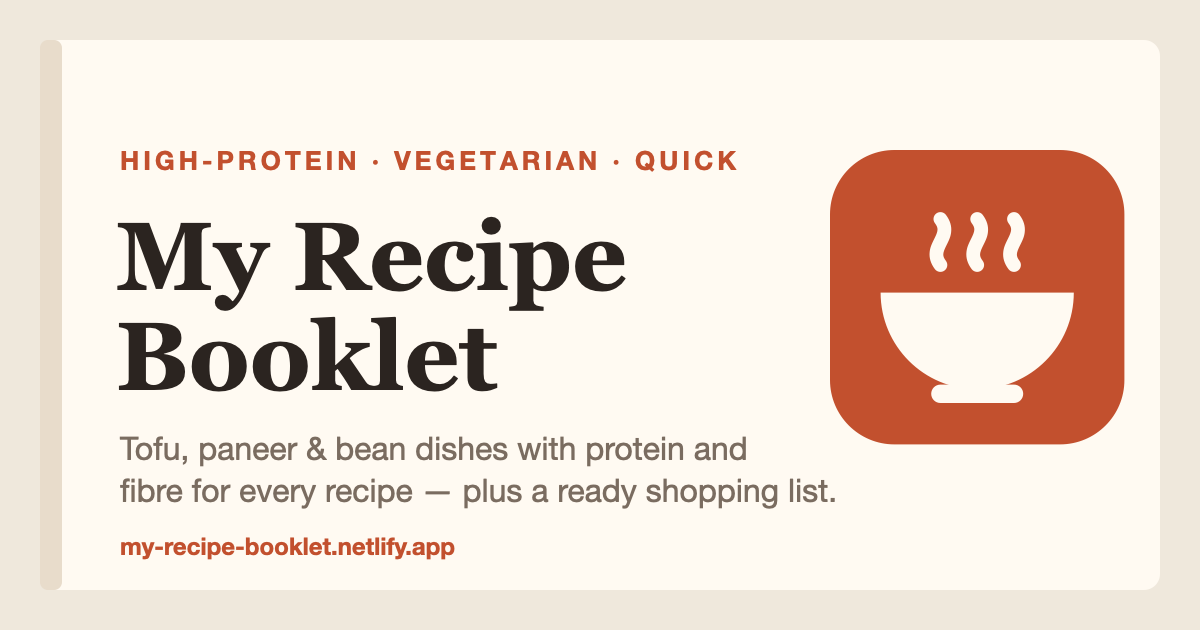
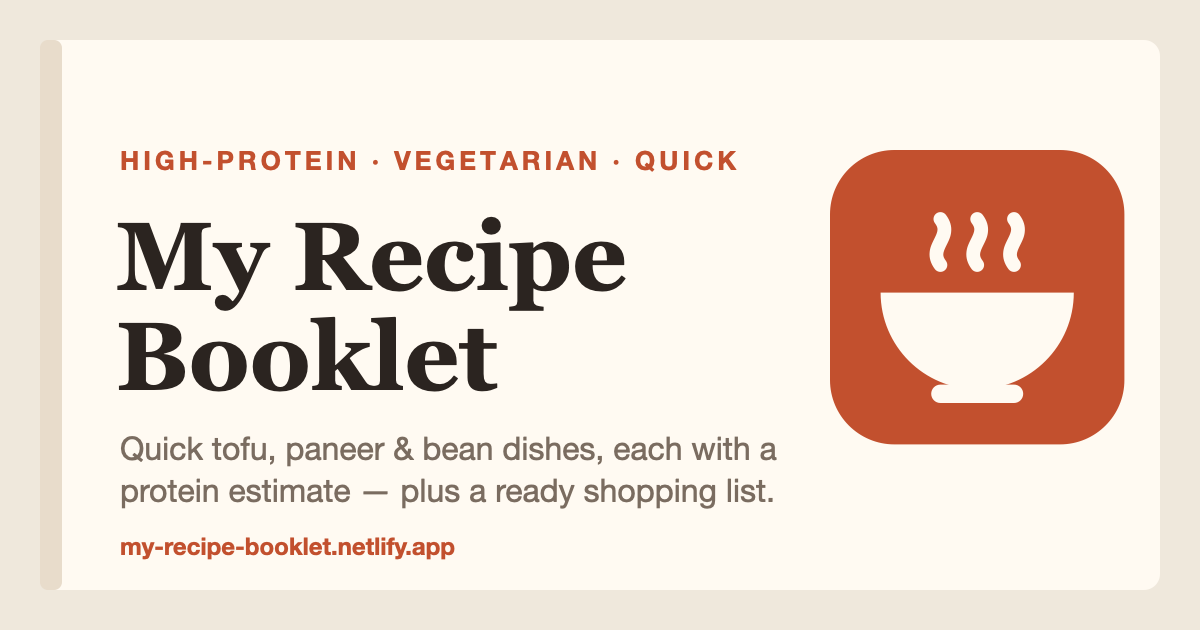
Make the booklet commercial-ready: per-recipe pages, sharing, fixes
- build.mjs generates a static, indexable page per recipe with its own
  title, description, share card and schema.org Recipe data, plus a sitemap
- render.js holds recipe helpers shared by the app and the builder
- Share button on recipe pages; ?pick= link adds a recipe to the list
- Copy list works without the Clipboard API (local file)
- Corrupt saved data no longer blanks the site
- Recipe slugs can't collide with built-in pages
- Screen-reader names for pick buttons and the cart count
- Landing and share-image copy no longer claim fibre for every recipe

Changed region(s): [[0.0925, 0.6937, 0.7092, 0.8143]]

diff --git a/app.js b/app.js
@@ -1,7 +1,5 @@
 (function () {
-  const esc = (s) => String(s ?? "").replace(/[&<>"']/g, (c) =>
-    ({ "&": "&amp;", "<": "&lt;", ">": "&gt;", '"': "&quot;", "'": "&#39;" }[c]));
-  const slugify = (s) => s.toLowerCase().replace(/&/g, "and").replace(/[^a-z0-9]+/g, "-").replace(/^-|-$/g, "");
+  const { esc, withSlugs, stats, metaLine, bodyHtml } = window.RecipeKit;
   const cap = (s) => s.charAt(0).toUpperCase() + s.slice(1);
   const load = (k, d) => { try { return JSON.parse(localStorage.getItem(k)) ?? d; } catch (e) { return d; } };
   const store = (k, v) => { try { localStorage.setItem(k, JSON.stringify(v)); } catch (e) {} };
@@ -16,40 +14,36 @@
     history.replaceState(null, "", location.pathname + location.hash);
   }
   const owner = load("recipe-booklet-owner", false);
+  const pickFromLink = params.get("pick");
+  if (pickFromLink) history.replaceState(null, "", location.pathname + location.hash);
   const FILE = window.RECIPES || [];
+  const isRecipe = (r) => r && typeof r.title === "string" && r.title.trim();
+  const loadList = (k) => { const v = load(k, []); return Array.isArray(v) ? v : []; };
 
   // Recipes added on the website live in this browser until exported into recipes.js.
   // Once a recipe with the same title is in the file, the browser copy is dropped.
   const ADDED = "recipe-booklet-added";
   const inFile = new Set(FILE.map((r) => r.title.trim().toLowerCase()));
-  let added = load(ADDED, []).filter((r) => !inFile.has(r.title.trim().toLowerCase()));
+  let added = loadList(ADDED).filter(isRecipe).filter((r) => !inFile.has(r.title.trim().toLowerCase()));
   store(ADDED, added);
 
   const PICKED = "recipe-booklet-picked";
-  let picked = new Set(load(PICKED, []));
+  let picked = new Set(loadList(PICKED).filter((s) => typeof s === "string"));
   const savePicked = () => store(PICKED, [...picked]);
 
   let recipes = [], bySlug = {}, cuisines = [];
   let filter = { q: "", cuisine: "" };
   let editingId = null;
 
-  const stats = (r) => [
-    r.cuisine && `<span class="stat">${esc(r.cuisine)}</span>`,
-    r.protein && `<span class="stat"><b>Protein</b> ${esc(r.protein)}</span>`,
-    r.fibre && `<span class="stat"><b>Fibre</b> ${esc(r.fibre)}</span>`,
-    r.time && `<span class="stat"><b>Time</b> ${esc(r.time)}</span>`,
-    r.makes && `<span class="stat"><b>Makes</b> ${esc(r.makes)}</span>`,
-  ].filter(Boolean).join("");
-
   const pickBtn = (r, small) =>
-    `<button class="btn pick${small ? " pick-sm" : ""}" data-pick="${r.slug}" aria-pressed="false"></button>`;
+    `<button class="btn pick${small ? " pick-sm" : ""}" data-pick="${r.slug}" data-name="${esc(r.title)}" aria-pressed="false"></button>`;
 
   const proteinMax = (r) => Math.max(0, ...(String(r.protein || "").match(/\d+/g) || []).map(Number));
 
   const card = (r) => `<a class="card" href="#${r.slug}">
       <span class="card-emoji">${esc(r.emoji || "🍽")}</span>
       <span class="card-title">${esc(r.title)}</span>
-      <span class="card-meta">${[r.cuisine, r.protein && r.protein + " protein"].filter(Boolean).map(esc).join(" · ")}</span>
+      <span class="card-meta">${metaLine(r)}</span>
     </a>`;
 
   function coverPage() {
@@ -59,7 +53,7 @@
       <div class="hero">
         <p class="eyebrow">High-protein · vegetarian · weeknight-fast</p>
         <h1 id="hero-title">Eat well.<br>Hit your protein.</h1>
-        <p class="lede">${recipes.length} simple recipes built around tofu, paneer, beans and Greek yogurt — with protein and fibre for every dish, up to ~${top}g a plate.</p>
+        <p class="lede">${recipes.length} simple recipes built around tofu, paneer, beans and Greek yogurt — each with a protein estimate, up to ~${top}g a plate.</p>
         <div class="hero-cta">
           <button class="btn primary big" data-go="contents">Browse recipes →</button>
           <button class="btn big" data-go="list">Build a shopping list</button>
@@ -118,18 +112,13 @@
       ? list.map((r) => `<li><a href="#${r.slug}">
           <span class="toc-emoji">${esc(r.emoji || "🍽")}</span>
           <span><span class="toc-title">${esc(r.title)}</span>
-            <span class="toc-meta">${[r.cuisine, r.protein && "Protein " + r.protein].filter(Boolean).map(esc).join(" · ")}</span></span>
+            <span class="toc-meta">${metaLine(r)}</span></span>
           <span class="toc-num">${r.n}</span></a>${pickBtn(r, true)}</li>`).join("")
       : `<li class="empty">No recipes match.</li>`;
     syncPicks();
   }
 
   function recipePage(r) {
-    const ing = (r.ingredients || []).map((x) => x.startsWith("## ")
-      ? `<li class="ing-head">${esc(x.slice(3))}</li>`
-      : `<li><label><input type="checkbox"><span>${esc(x)}</span></label></li>`).join("");
-    const steps = (r.method || []).map((x) => typeof x === "string" ? `<li>${esc(x)}</li>`
-      : `<li><b class="step-title">${esc(x.step)}</b>${[].concat(x.text).map((t) => `<p>${esc(t)}</p>`).join("")}</li>`).join("");
     const own = owner && r.custom ? `<span class="own">Added in this browser
         <button class="link" data-edit="${esc(r.id)}">Edit</button>
         <button class="link danger" data-delete="${esc(r.id)}">Delete</button></span>` : "";
@@ -139,13 +128,9 @@
         <div class="recipe-no">Recipe ${r.n}</div>
         <h2><span class="e">${esc(r.emoji || "🍽")}</span>${esc(r.title)}</h2>
         <div class="stats">${stats(r)}</div>
-        <div class="head-pick">${pickBtn(r)}</div>
+        <div class="head-pick">${pickBtn(r)}${r.custom ? "" : `<button class="btn" data-share="${r.slug}">Share</button>`}</div>
       </div>
-      <div class="cols">
-        <div><h3>Ingredients</h3><ul class="ingredients">${ing}</ul></div>
-        <div><h3>Method</h3><ol class="method">${steps}</ol>
-          ${r.tip ? `<div class="tip"><b>Tip:</b> ${esc(r.tip)}</div>` : ""}</div>
-      </div>
+      ${bodyHtml(r)}
       <div class="folio">— ${r.n} —</div>
     </section>`;
   }
@@ -229,11 +214,28 @@
       b.textContent = b.classList.contains("pick-sm") ? (on ? "✓" : "＋")
         : (on ? "✓ On shopping list" : "＋ Add to shopping list");
       b.title = on ? "Remove from shopping list" : "Add to shopping list";
+      if (b.classList.contains("pick-sm")) b.setAttribute("aria-label", `${b.title}: ${b.dataset.name}`);
     });
     const cart = document.getElementById("cart");
     cart.textContent = `🛒 List${picked.size ? ` (${picked.size})` : ""}`;
     cart.classList.toggle("has", picked.size > 0);
   }
+
+  // Copies text, falling back to a hidden textarea where the Clipboard API is missing
+  // (e.g. when the booklet is opened as a local file).
+  function copyText(text) {
+    if (navigator.clipboard && window.isSecureContext) return navigator.clipboard.writeText(text);
+    const ta = document.createElement("textarea");
+    ta.value = text; ta.setAttribute("readonly", ""); ta.className = "offscreen";
+    document.body.appendChild(ta); ta.select();
+    const ok = document.execCommand("copy");
+    ta.remove();
+    return ok ? Promise.resolve() : Promise.reject(new Error("copy failed"));
+  }
+  const flash = (btn, ok, label) => {
+    btn.textContent = ok ? "Copied ✓" : "Couldn't copy";
+    setTimeout(() => (btn.textContent = label), 1500);
+  };
 
   // ── adding recipes ──
   function addPage() {
@@ -286,9 +288,11 @@
   const tidySteps = (steps) => steps.map((x) => typeof x === "string" ? x
     : !x.text.length ? x.step : { step: x.step, text: x.text.length === 1 ? x.text[0] : x.text });
 
+  const FIELDS = ["title", "emoji", "cuisine", "protein", "fibre", "time", "makes", "tip"];
+
   function fillForm(r) {
     const form = book.querySelector("#rform");
-    ["title", "emoji", "cuisine", "protein", "fibre", "time", "makes", "tip"].forEach((k) => (form[k].value = r[k] || ""));
+    FIELDS.forEach((k) => (form[k].value = r[k] || ""));
     form.ingredients.value = (r.ingredients || []).join("\n");
     form.method.value = methodToText(r.method);
   }
@@ -296,7 +300,7 @@
   function readForm() {
     const form = book.querySelector("#rform");
     const r = {};
-    ["title", "emoji", "cuisine", "protein", "fibre", "time", "makes", "tip"].forEach((k) => {
+    FIELDS.forEach((k) => {
       const v = form[k].value.trim(); if (v) r[k] = v;
     });
     r.ingredients = form.ingredients.value.split("\n").map((l) => l.trim().replace(/^[*•-]\s+/, "")).filter(Boolean);
@@ -385,45 +389,15 @@
     setTimeout(() => URL.revokeObjectURL(a.href), 1000);
   }
 
-  // Recipe data search engines can read (schema.org/Recipe).
-  function structuredData() {
-    const base = location.origin + location.pathname;
-    const steps = (m) => (m || []).flatMap((x) => typeof x === "string" ? [x] : [x.step + ": " + [].concat(x.text).join(" ")]);
-    const data = {
-      "@context": "https://schema.org",
-      "@type": "ItemList",
-      itemListElement: recipes.filter((r) => !r.custom).map((r, i) => ({
-        "@type": "ListItem", position: i + 1, url: base + "#" + r.slug,
-        item: {
-          "@type": "Recipe", name: r.title, recipeCuisine: r.cuisine, keywords: "high protein, vegetarian",
-          recipeYield: r.makes, recipeIngredient: (r.ingredients || []).filter((x) => !x.startsWith("## ")),
-          recipeInstructions: steps(r.method).map((t) => ({ "@type": "HowToStep", text: t })),
-          nutrition: { "@type": "NutritionInformation", proteinContent: r.protein, fiberContent: r.fibre },
-        },
-      })),
-    };
-    let el = document.getElementById("ld");
-    if (!el) { el = document.createElement("script"); el.type = "application/ld+json"; el.id = "ld"; document.head.appendChild(el); }
-    el.textContent = JSON.stringify(data);
-  }
-
   // ── building & routing ──
   function build() {
-    const used = new Set();
-    recipes = [...FILE, ...(owner ? added : []).map((r) => ({ ...r, custom: true }))].map((r, i) => {
-      const base = slugify(r.title) || "recipe";
-      let slug = base, k = 2;
-      while (used.has(slug)) slug = `${base}-${k++}`;
-      used.add(slug);
-      return { ...r, n: i + 1, slug };
-    });
+    recipes = withSlugs([...FILE, ...(owner ? added : []).map((r) => ({ ...r, custom: true }))]);
     bySlug = Object.fromEntries(recipes.map((r) => [r.slug, r]));
     cuisines = [...new Set(recipes.map((r) => r.cuisine).filter(Boolean))];
     picked = new Set([...picked].filter((s) => bySlug[s]));
     filter = { q: "", cuisine: "" };
     book.innerHTML = coverPage() + contentsPage() + recipes.map(recipePage).join("") + listPage() + aboutPage() + (owner ? addPage() : "");
     renderToc();
-    structuredData();
   }
 
   function current() {
@@ -490,10 +464,13 @@
     }
     if (t.closest("#clear")) { picked.clear(); savePicked(); syncPicks(); renderList(); }
     const copy = t.closest("#copy");
-    if (copy) {
-      navigator.clipboard.writeText(listAsText()).then(
-        () => { copy.textContent = "Copied ✓"; setTimeout(() => (copy.textContent = "Copy list"), 1500); },
-        () => { copy.textContent = "Couldn't copy"; });
+    if (copy) copyText(listAsText()).then(() => flash(copy, true, "Copy list"), () => flash(copy, false, "Copy list"));
+    const share = t.closest("[data-share]");
+    if (share) {
+      const r = bySlug[share.dataset.share];
+      const url = `${location.origin}/recipes/${r.slug}/`;
+      if (navigator.share) navigator.share({ title: r.title, url }).catch(() => {});
+      else copyText(url).then(() => flash(share, true, "Share"), () => flash(share, false, "Share"));
     }
     const c = t.closest("[data-cuisine]");
     if (c) {
@@ -521,5 +498,6 @@
   window.addEventListener("hashchange", show);
 
   build();
+  if (pickFromLink && bySlug[pickFromLink]) { picked.add(pickFromLink); savePicked(); syncPicks(); }
   show();
 })();

diff --git a/render.js b/render.js
@@ -1,0 +1,54 @@
+// Recipe helpers shared by the browser app (app.js) and the static page builder (build.mjs),
+// so a recipe looks the same in the booklet and on its own page.
+(function (g) {
+  const esc = (s) => String(s ?? "").replace(/[&<>"']/g, (c) =>
+    ({ "&": "&amp;", "<": "&lt;", ">": "&gt;", '"': "&quot;", "'": "&#39;" }[c]));
+  const slugify = (s) => String(s).toLowerCase().replace(/&/g, "and").replace(/[^a-z0-9]+/g, "-").replace(/^-|-$/g, "");
+
+  // Page ids the app already uses; a recipe may not take one of these as its slug.
+  const RESERVED = ["cover", "contents", "list", "about", "add"];
+
+  // Gives each recipe a unique slug, in list order. Builder and app call this with the same
+  // recipes.js list first, so a recipe's static page and its booklet page share one slug.
+  function withSlugs(list) {
+    const used = new Set(RESERVED);
+    return list.map((r, i) => {
+      const base = slugify(r.title) || "recipe";
+      let slug = base, k = 2;
+      while (used.has(slug)) slug = `${base}-${k++}`;
+      used.add(slug);
+      return { ...r, n: i + 1, slug };
+    });
+  }
+
+  const stats = (r) => [
+    r.cuisine && `<span class="stat">${esc(r.cuisine)}</span>`,
+    r.protein && `<span class="stat"><b>Protein</b> ${esc(r.protein)}</span>`,
+    r.fibre && `<span class="stat"><b>Fibre</b> ${esc(r.fibre)}</span>`,
+    r.time && `<span class="stat"><b>Time</b> ${esc(r.time)}</span>`,
+    r.makes && `<span class="stat"><b>Makes</b> ${esc(r.makes)}</span>`,
+  ].filter(Boolean).join("");
+
+  const metaLine = (r) => [r.cuisine, r.protein && `${r.protein} protein`].filter(Boolean).map(esc).join(" · ");
+
+  const ingredientList = (r) => (r.ingredients || []).filter((x) => !x.startsWith("## "));
+
+  // Method steps as plain sentences, e.g. for search engines.
+  const stepTexts = (r) => (r.method || []).map((x) =>
+    typeof x === "string" ? x : `${x.step}: ${[].concat(x.text).join(" ")}`);
+
+  const ingredientsHtml = (r) => (r.ingredients || []).map((x) => x.startsWith("## ")
+    ? `<li class="ing-head">${esc(x.slice(3))}</li>`
+    : `<li><label><input type="checkbox"><span>${esc(x)}</span></label></li>`).join("");
+
+  const methodHtml = (r) => (r.method || []).map((x) => typeof x === "string" ? `<li>${esc(x)}</li>`
+    : `<li><b class="step-title">${esc(x.step)}</b>${[].concat(x.text).map((t) => `<p>${esc(t)}</p>`).join("")}</li>`).join("");
+
+  const bodyHtml = (r) => `<div class="cols">
+        <div><h3>Ingredients</h3><ul class="ingredients">${ingredientsHtml(r)}</ul></div>
+        <div><h3>Method</h3><ol class="method">${methodHtml(r)}</ol>
+          ${r.tip ? `<div class="tip"><b>Tip:</b> ${esc(r.tip)}</div>` : ""}</div>
+      </div>`;
+
+  g.RecipeKit = { esc, slugify, RESERVED, withSlugs, stats, metaLine, ingredientList, stepTexts, bodyHtml };
+})(globalThis);

diff --git a/index.html b/index.html
@@ -4,7 +4,7 @@
   <meta charset="utf-8">
   <meta name="viewport" content="width=device-width, initial-scale=1">
   <title>My Recipe Booklet · High-protein vegetarian recipes</title>
-  <meta name="description" content="Quick, high-protein vegetarian recipes — tofu, paneer, beans and more, with protein and fibre for every dish and a shopping list that builds itself.">
+  <meta name="description" content="Quick, high-protein vegetarian recipes — tofu, paneer, beans and more, each with a protein estimate and a shopping list that builds itself.">
   <link rel="canonical" href="https://my-recipe-booklet.netlify.app/">
   <meta name="theme-color" content="#c2502e">
   <link rel="icon" href="favicon.svg" type="image/svg+xml">
@@ -15,7 +15,7 @@
   <meta property="og:type" content="website">
   <meta property="og:site_name" content="My Recipe Booklet">
   <meta property="og:title" content="My Recipe Booklet · High-protein vegetarian recipes">
-  <meta property="og:description" content="Quick, high-protein vegetarian recipes with protein and fibre for every dish — and a shopping list that builds itself.">
+  <meta property="og:description" content="Quick, high-protein vegetarian recipes each with a protein estimate — and a shopping list that builds itself.">
   <meta property="og:url" content="https://my-recipe-booklet.netlify.app/">
   <meta property="og:image" content="https://my-recipe-booklet.netlify.app/og-image.png">
   <meta property="og:image:width" content="1200">
@@ -27,6 +27,7 @@
   <link rel="stylesheet" href="https://fonts.googleapis.com/css2?family=Fraunces:opsz,wght@9..144,400;9..144,600;9..144,700&family=Inter:wght@400;500;600&display=swap">
   <link rel="stylesheet" href="style.css">
   <script src="recipes.js" defer></script>
+  <script src="render.js" defer></script>
   <script src="app.js" defer></script>
 </head>
 <body>
@@ -35,7 +36,7 @@
     <a class="bar-title" href="#" aria-label="My Recipe Booklet, home"><img src="favicon.svg" alt="" width="26" height="26"> Recipe Booklet</a>
     <nav class="bar-actions" aria-label="Main">
       <button class="btn" data-go="contents">Recipes</button>
-      <button class="btn cart" id="cart" data-go="list" aria-label="Shopping list">🛒 List</button>
+      <button class="btn cart" id="cart" data-go="list">🛒 List</button>
       <button class="btn" id="print">Print</button>
     </nav>
   </header>

diff --git a/style.css b/style.css
@@ -273,3 +273,9 @@ code { font-size: .9em; background: var(--accent-soft); padding: 1px 5px; border
 .notfound { text-align: center; padding-top: 120px; }
 .notfound .btn { display: inline-block; text-decoration: none; margin-top: 8px; }
 #p-about h2 { margin-bottom: 20px; }
+.offscreen { position: fixed; left: -9999px; top: 0; }
+.head-pick { display: flex; flex-wrap: wrap; gap: 8px; }
+.head-pick a.btn { text-decoration: none; }
+.recipe-head h1 { font: 700 clamp(28px, 5vw, 40px)/1.15 var(--serif); margin: 6px 0 16px; }
+.recipe-head h1 .e { margin-right: 10px; }
+.bar-actions a.btn { text-decoration: none; }

diff --git a/README.md b/README.md
@@ -11,7 +11,10 @@ to show **＋ Add a recipe** there; `?owner=off` hides it again.
 
 ## Files
 - `recipes.js` — **all your recipes live here.** This is the only file you need to edit.
-- `index.html`, `style.css`, `app.js` — the booklet website itself.
+- `index.html`, `style.css`, `app.js`, `render.js` — the booklet website itself.
+- `build.mjs` — Netlify runs this on every deploy. It copies the site into `dist/` and adds a
+  search-friendly page for each recipe at `/recipes/<recipe-name>/`, plus `sitemap.xml`.
+  Run `node build.mjs` to build it locally.
 
 ## Adding a recipe on the website
 In owner mode, tap **＋ Add a recipe** on the Recipes page. Paste the recipe, tap **Fill in the form**, check the fields and save.
